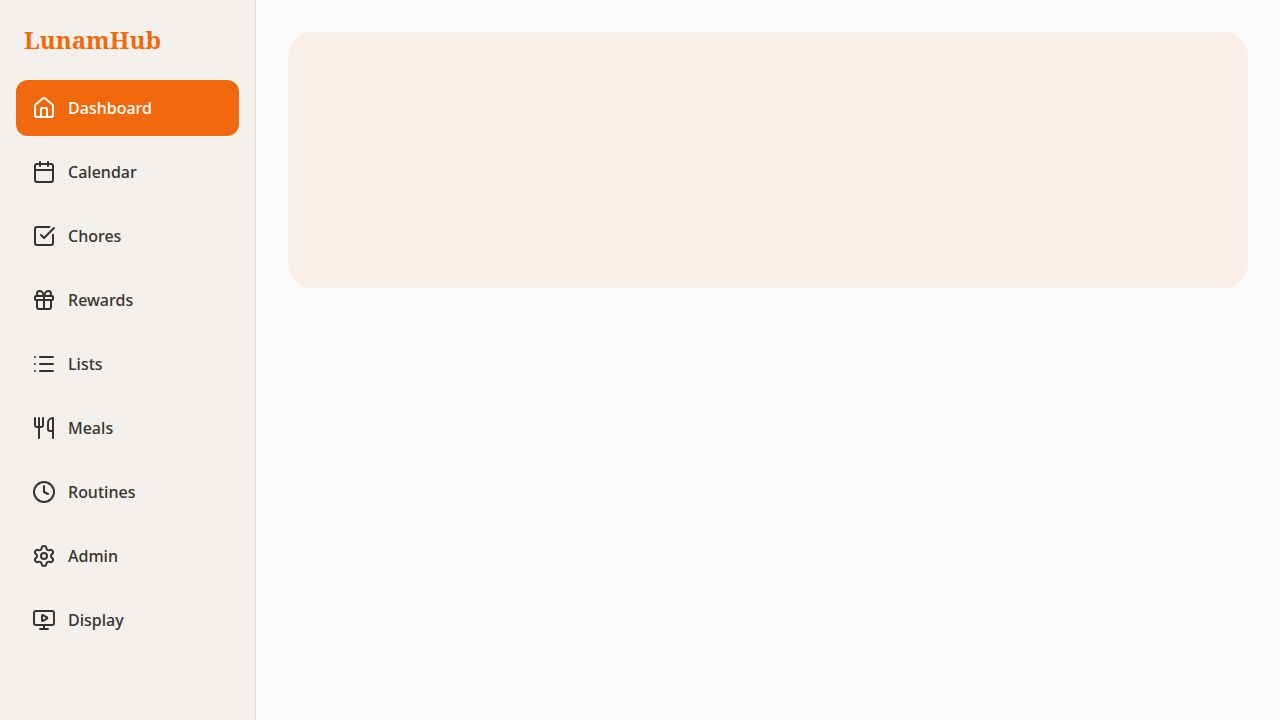
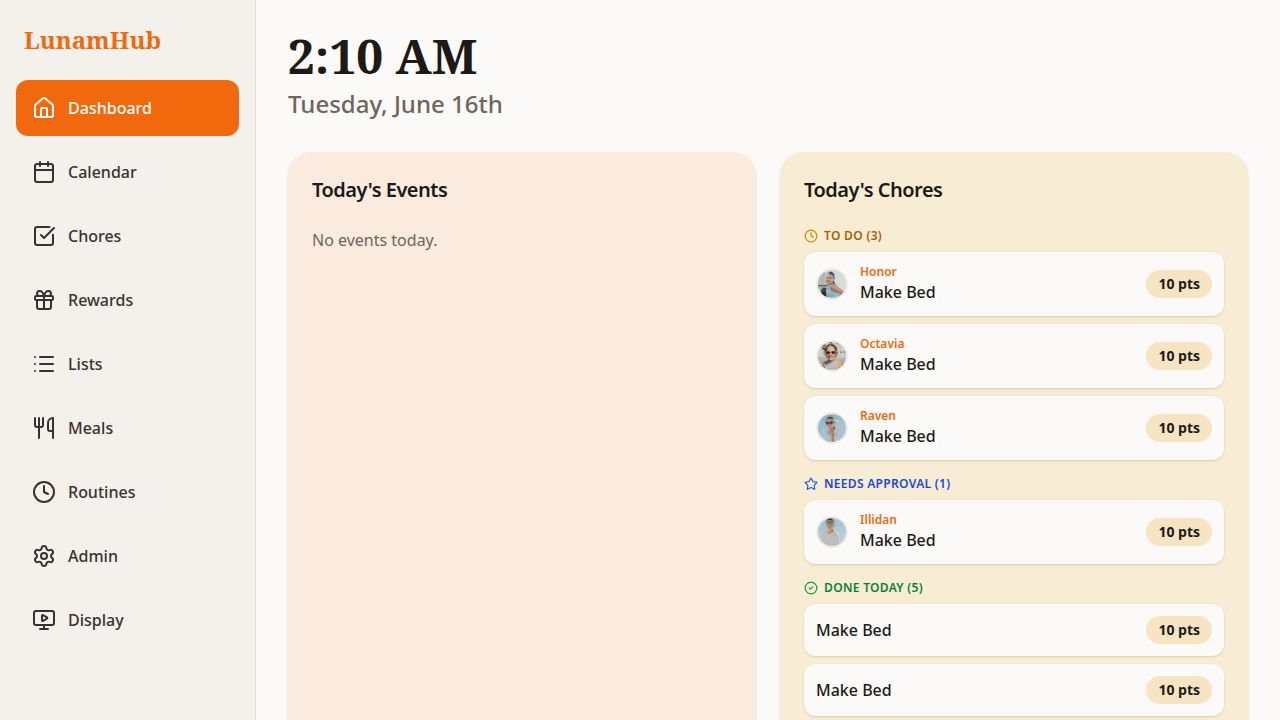
Show recurring events on all matching days in the calendar
Task: Recurring events were only rendered on their original date in the
calendar grid and day panel. Users expected a weekly event (for example)
to appear on every matching weekday across the visible month — including
for events that originally started in a prior month.

Changes:

Client-side (artifacts/lunam-hub/src/pages/Calendar.tsx):
- Added `doesEventOccurOnDay(event, day)` helper that expands DAILY,
  WEEKLY, MONTHLY, and YEARLY recurrence rules using date-fns utilities
- Helper respects `recurrenceEndDate` — stops expanding after that date
- Updated calendar grid dot logic (`hasEvents`) to use the helper so
  dots appear on every occurrence in the month view
- Updated day-panel filter (`selectedDayEvents`) to show recurring
  occurrences when a user clicks any matching day
- Recurrence badge in the day panel renders on all occurrences with no
  extra changes needed since it reads from the event's `recurrence` field
- Added `getDay`, `getDate`, `getMonth` imports from date-fns

Server-side (artifacts/api-server/src/routes/events.ts):
- Fixed the critical gap where recurring events starting before the
  visible month were never returned to the client
- Updated list events query: when both startDate and endDate are given,
  uses an OR clause:
    (a) non-recurring events within the window (existing behaviour)
    (b) recurring events whose `date <= endDate` AND whose series
        hasn't ended before the window start (`recurrenceEndDate IS NULL
[…]

diff --git a/artifacts/api-server/src/routes/events.ts b/artifacts/api-server/src/routes/events.ts
@@ -5,7 +5,7 @@
 import { Router } from "express";
 import { db } from "@workspace/db";
 import { eventsTable, eventMembersTable } from "@workspace/db";
-import { eq, gte, lte, inArray } from "drizzle-orm";
+import { eq, gte, lte, inArray, or, and, isNull, isNotNull } from "drizzle-orm";
 import {
   CreateEventBody,
   UpdateEventBody,
@@ -159,8 +159,33 @@ router.get("/", async (req, res): Promise<void> => {
   });
 
   let query = db.select().from(eventsTable).$dynamic();
-  if (params.startDate) query = query.where(gte(eventsTable.date, params.startDate));
-  if (params.endDate) query = query.where(lte(eventsTable.date, params.endDate));
+  if (params.startDate && params.endDate) {
+    // Include non-recurring events within the window AND recurring events
+    // that started before the window end and whose series overlaps the window.
+    query = query.where(
+      or(
+        // Non-recurring: date must fall within the requested window
+        and(
+          isNull(eventsTable.recurrence),
+          gte(eventsTable.date, params.startDate),
+          lte(eventsTable.date, params.endDate)
+        ),
+        // Recurring: event starts on or before the window end, and the series
+        // hasn't ended before the window start (or has no end date)
+        and(
+          isNotNull(eventsTable.recurrence),
+          lte(eventsTable.date, params.endDate),
+          or(
+            isNull(eventsTable.recurrenceEndDate),
+            gte(eventsTable.recurrenceEndDate, params.startDate)
+          )
+        )
+      )
+    );
+  } else {
+    if (params.startDate) query = query.where(gte(eventsTable.date, params.startDate));
+    if (params.endDate) query = query.where(lte(eventsTable.date, params.endDate));
+  }
 
   const events = await query.orderBy(eventsTable.date);
   const memberMap = await getEventMembers(events.map((e) => e.id));

diff --git a/artifacts/lunam-hub/src/pages/Calendar.tsx b/artifacts/lunam-hub/src/pages/Calendar.tsx
@@ -6,7 +6,7 @@ import {
   getListEventsQueryKey,
 } from "@workspace/api-client-react";
 import { useQueryClient } from "@tanstack/react-query";
-import { format, addMonths, subMonths, startOfMonth, endOfMonth, eachDayOfInterval, isSameMonth, isToday, isSameDay, parseISO } from "date-fns";
+import { format, addMonths, subMonths, startOfMonth, endOfMonth, eachDayOfInterval, isSameMonth, isToday, isSameDay, parseISO, getDay, getDate, getMonth } from "date-fns";
 import { Card, CardContent, CardHeader, CardTitle } from "@/components/ui/card";
 import { Button } from "@/components/ui/button";
 import { Dialog, DialogContent, DialogHeader, DialogTitle } from "@/components/ui/dialog";
@@ -35,6 +35,28 @@ const RECURRENCE_LABELS: Record<string, string> = {
   MONTHLY: "Monthly",
   YEARLY: "Yearly",
 };
+
+function doesEventOccurOnDay(event: Event, day: Date): boolean {
+  const eventStart = parseISO(event.date);
+  if (eventStart > day) return false;
+  if (!event.recurrence) return isSameDay(eventStart, day);
+  if (event.recurrenceEndDate) {
+    const endDate = parseISO(event.recurrenceEndDate as string);
+    if (day > endDate) return false;
+  }
+  switch (event.recurrence as string) {
+    case "DAILY":
+      return true;
+    case "WEEKLY":
+      return getDay(eventStart) === getDay(day);
+    case "MONTHLY":
+      return getDate(eventStart) === getDate(day);
+    case "YEARLY":
+      return getMonth(eventStart) === getMonth(day) && getDate(eventStart) === getDate(day);
+    default:
+      return isSameDay(eventStart, day);
+  }
+}
 
 type FormMode = "create" | "edit";
 
@@ -230,7 +252,7 @@ export default function Calendar() {
   const isPending = createEvent.isPending || updateEvent.isPending;
 
   const days = eachDayOfInterval({ start: startOfMonth(currentMonth), end: endOfMonth(currentMonth) });
-  const selectedDayEvents = events.filter(e => isSameDay(parseISO(e.date), selectedDay));
+  const selectedDayEvents = events.filter(e => doesEventOccurOnDay(e, selectedDay));
 
   return (
     <div className="space-y-6 animate-in fade-in duration-300">
@@ -443,7 +465,7 @@ export default function Calendar() {
             <div className="grid grid-cols-7 gap-1">
               {Array.from({ length: days[0].getDay() }).map((_, i) => <div key={`pad-${i}`} />)}
               {days.map(day => {
-                const hasEvents = events.some(e => isSameDay(parseISO(e.date), day));
+                const hasEvents = events.some(e => doesEventOccurOnDay(e, day));
                 const selected = isSameDay(day, selectedDay);
                 const todayDay = isToday(day);
                 return (